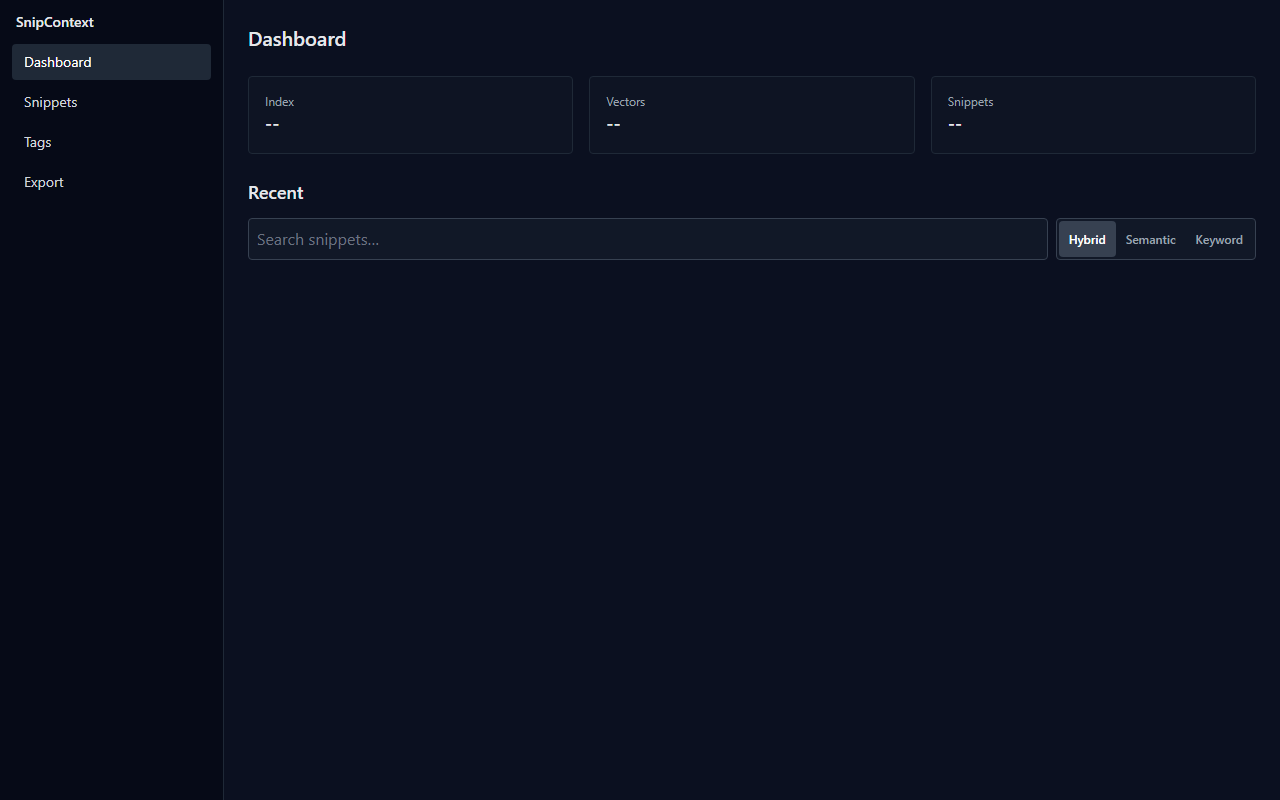
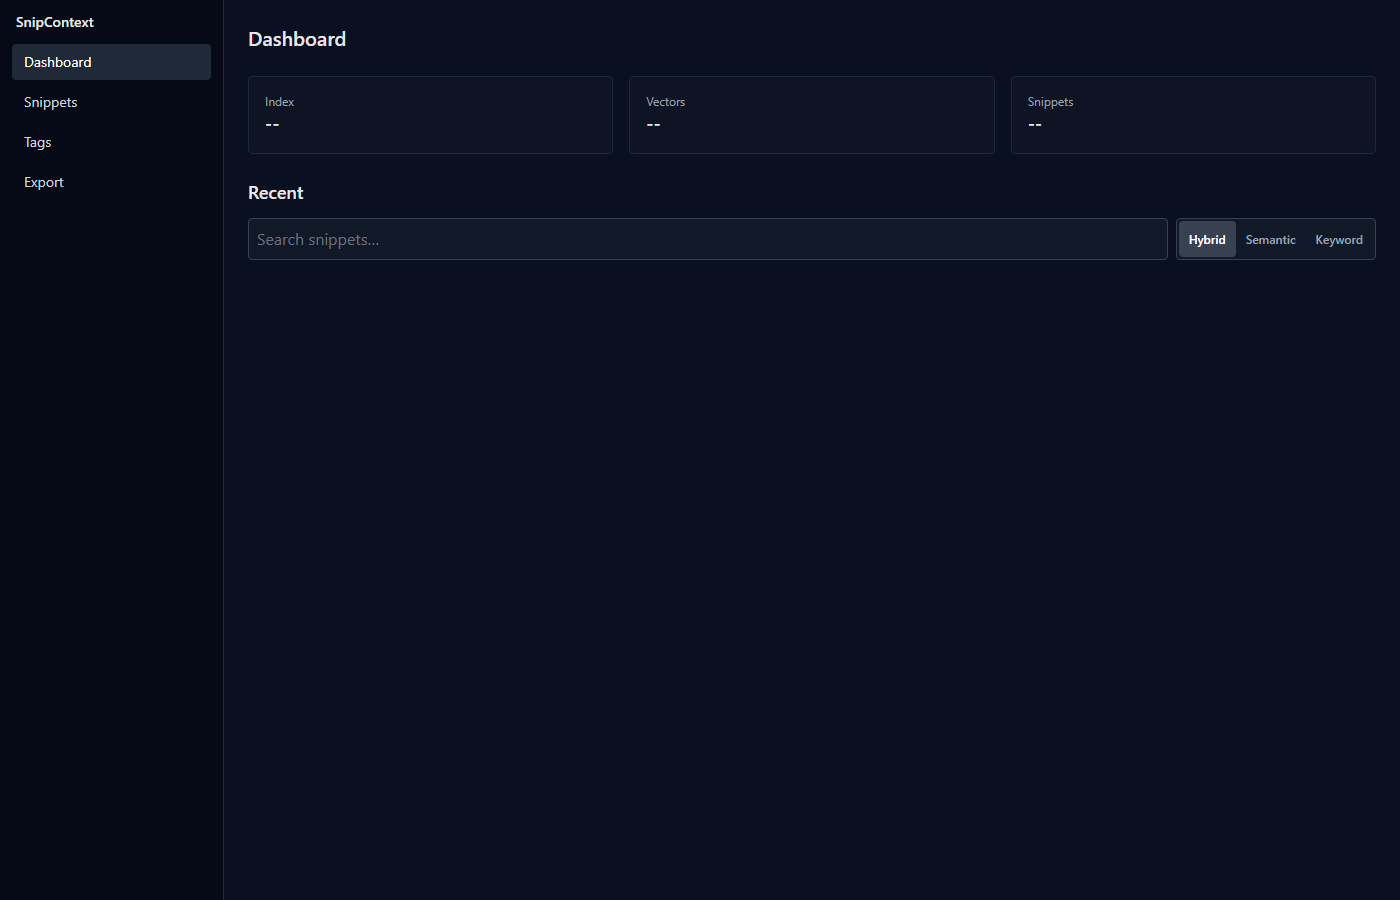
fix(web): serve SPA at root; screenshot refresh

diff --git a/src/snipcontext/web/app.py b/src/snipcontext/web/app.py
@@ -65,7 +65,7 @@ def create_app() -> FastAPI:
         async def index_html() -> Response:
             return Response((dist_dir / "index.html").read_bytes(), media_type="text/html")
 
-        @app.get("/{full_path:path}", include_in_schema=False, response_model=None)  # type: ignore[untyped-decorator]
+        @app.get("/{request_path:path}", include_in_schema=False, response_model=None)  # type: ignore[untyped-decorator]
         async def serve_frontend(request_path: str) -> Response:
             if (
                 request_path.startswith("api/")
@@ -76,6 +76,6 @@ def create_app() -> FastAPI:
             candidate = dist_dir / request_path
             if request_path and candidate.is_file():
                 return Response(candidate.read_bytes(), media_type="application/octet-stream")
-            return JSONResponse((dist_dir / "index.html").read_bytes(), media_type="text/html")
+            return Response((dist_dir / "index.html").read_bytes(), media_type="text/html")
 
     return app
